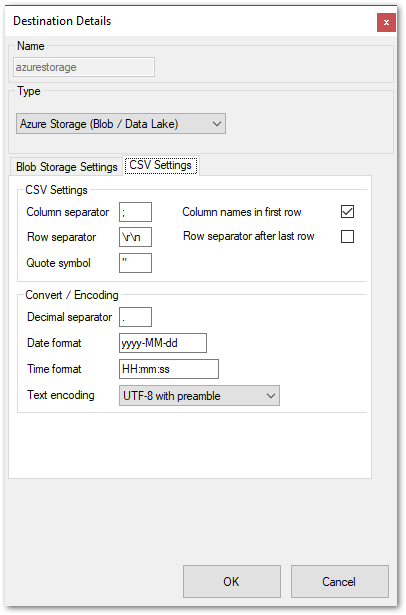
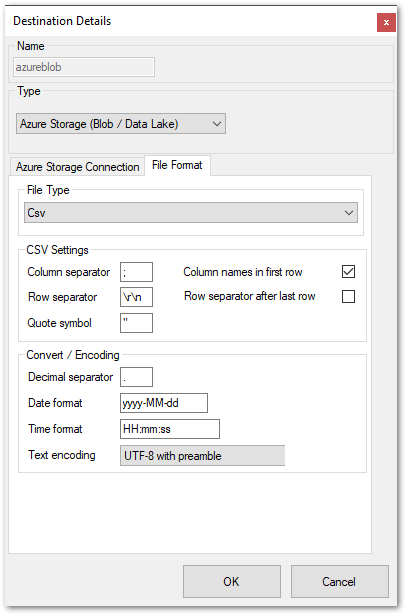
azure storage "file format" tab

diff --git a/content/_de/xtract-universal/xu-destinationen/azure-storage/blob-verbindung.md b/content/_de/xtract-universal/xu-destinationen/azure-storage/blob-verbindung.md
@@ -20,12 +20,13 @@ old_url: /Xtract-Universal-DE/default.aspx?pageid=blob-verbindung
 
 Das Fenster "Destination Details" besteht aus zwei Tabs:
 - Azure Storage Connection
-- CSV Settings
+- File Format
 
 ### Azure Storage Connection -  Azure Storage Einstellungen
-Der Tab *Azure Storage Settings* besteht aus zwei Unterabschnitten:
+Der Tab *Azure Storage Settings* besteht aus drei Unterabschnitten:
 - Connection 
 - Container
+- Folder path
 ![xu-azure-blob-con-01](/img/content/xu-azure-blob-con-01_.png){:class="img-responsive"}
 
 Der Unterabschnitt *Connection* bietet zwei verschiedene Methoden zur Authentifizierung und Zugriffssteuerung auf dem Azure Speicherkonto:
@@ -70,10 +71,9 @@ Bei einer erfolgreichen Verbindung wird das Info-Fenster "Connection to containe
 
 ![azure_blob_test-connection](/img/content/xu-azure-blob-con-09.png){:class="img-responsive"}
 Klicken Sie auf **[OK]** zum Bestätigen. <br>
-Navigieren Sie zum Tab *CSV Settings* oder klicken Sie auf **[OK]**.<br>
 Die Destination *Azure Storage (Blob / Data Lake)* kann nun verwendet werden.
 
-**Folder path**
+**Folder path**<br>
 Option zum Erstellen eines Verzeichnisses innerhalb des Containers zum Abspeichern von Dateien. Mehr Details im Abschnitt [Destination Settings - Destinationseinstellungen > Folder Path](./blob-einstellungen#destination-settings---destinationseinstellungen).
 
 *****************
@@ -140,17 +140,16 @@ Schaltfläche zur Überprüfung, ob auf den Storage-Container zugegriffen werden
 Bei einer erfolgreichen Verbindung wird das Info-Fenster "Connection to container <*Container-Name*> successful" geöffnet. <br>
 ![azure_blob_test-connection](/img/content/xu-azure-blob-con-09.png){:class="img-responsive"}
 Klicken Sie auf **[OK]** zum Bestätigen. <br>
-Navigieren Sie zum Tab *CSV Settings* oder klicken Sie auf **[OK]**.<br>
 Die Destination *Azure Storage (Blob / Data Lake)* kann nun verwendet werden.
 
-**Folder path**
+**Folder path** <br>
 Option zum Erstellen eines Verzeichnisses innerhalb des Containers zum Abspeichern von Dateien. Mehr Details im Abschnitt [Destination Settings - Destinationseinstellungen > Folder Path](./blob-einstellungen#destination-settings---destinationseinstellungen).
 
 
+### File Format 
+Wählen Sie das gewünschte Dateiformat zwischen "Parquet" und "CSV".
 
-### CSV Settings (CSV Einstellungen)
-
-Die Einstellungsmöglichkeiten im Tab CSV Settings entsprechen denen der allgemeinen [http-csv Settings](../csv-via-http).
+Die CSV Settings entsprechen denen der allgemeinen [http-csv Settings](../csv-via-http).
 
 ![azure_blob_destination_settings_csv_settings](/img/content/xu-azure-blob-con-04.png){:class="img-responsive"}
 

diff --git a/content/_en/xtract-universal/xu-destinations/azure-storage/blob-connection.md b/content/_en/xtract-universal/xu-destinations/azure-storage/blob-connection.md
@@ -20,7 +20,7 @@ old_url: /Xtract-Universal-EN/default.aspx?pageid=blob-connection
 
 The window "Destination Details" consists of two tabs:
 - Azure Storage Connection
-- CSV Settings
+- File Format
 
 ### Azure Storage Connection
 The tab *Azure Storage Connection* consists of three subsections:
@@ -68,7 +68,7 @@ Button to check if the storage container can be accessed. <br>
 If the connection is successful, a "Connection to container <*name of container*> successful" info window opens. 
 ![azure_blob_test-connection](/img/content/xu-azure-blob-con-09.png){:class="img-responsive"}
 Click **[OK]** to confirm. <br>
-Go to the *CSV Settings* tab or click **[OK]**. The *Azure Storage (Blob / Data Lake)* destination can now be used.
+Go to the *File Format* tab or click **[OK]**. The *Azure Storage (Blob / Data Lake)* destination can now be used.
 
 
 **Folder path**
@@ -109,7 +109,6 @@ ID of the registered app
 
 ![xu-azure-blob-con-08](/img/content/xu-azure-blob-con-08.png){:class="img-responsive"}
 
-
 **Connect**<br>
 Button to establish a connection to the Azure storage account.<br>
 1. Click **[Connect]**. A browser window pops up.
@@ -138,14 +137,15 @@ If the connection is successful, a "Connection to container <*name of container*
 ![azure_blob_test-connection](/img/content/xu-azure-blob-con-09.png){:class="img-responsive"}
 
 Click **[OK]** to confirm. <br>
-Go to the *CSV Settings* tab or click **[OK]**. The *Azure Storage (Blob / Data Lake)* destination can now be used.
+The *Azure Storage (Blob / Data Lake)* destination can now be used.
 
 **Folder path**
 Option to create a directory within the container for saving files. See also [Destination Settings > Folder Path](./blob-settings#destination-settings).
 
-### CSV Settings
+### File Format 
+Select the required file format between "Parquet" and "CSV".
 
-The settings in the tab *CSV Settings* correspond to the settings in the general [http-csv settings](../csv-via-http).
+The csv settings correspond to the settings in the general [http-csv settings](../csv-via-http).
 
 ![azure_blob_destination_settings_csv_settings](/img/content/xu-azure-blob-con-04.png){:class="img-responsive"}
 
